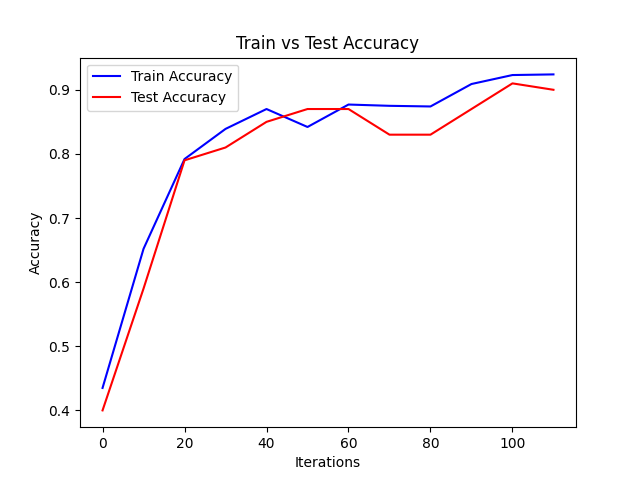
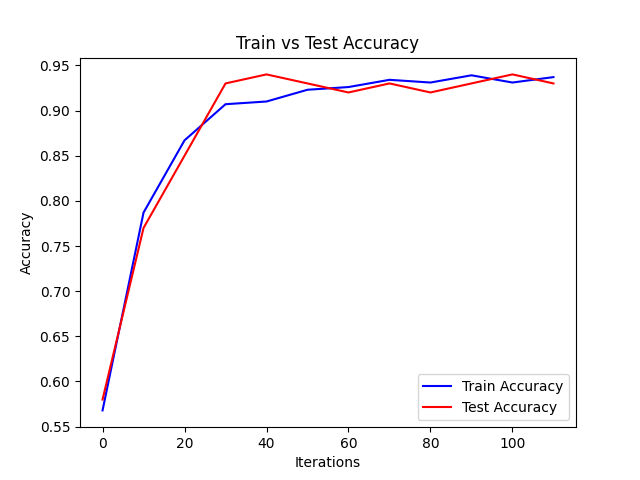
Different parameters

diff --git a/GQHAN_penny.py b/GQHAN_penny.py
@@ -128,8 +128,8 @@ num_params = 14
 def circuit_training(X_train, Y_train, X_test, Y_test):
     
     np.random.seed(42) 
-    #params = np.pi * np.random.randn(num_params, requires_grad=True)
-    params = 0.01 * np.random.randn(num_params, requires_grad=True)
+    params = np.random.uniform(low=-np.pi, high= np.pi, size=(num_params),requires_grad=True)
+    #params = 0.01 * np.random.randn(num_params, requires_grad=True)
     opt = qml.NesterovMomentumOptimizer(stepsize=learning_rate)
     loss_history = []
     acc_test_history = []
@@ -167,20 +167,20 @@ def circuit_training(X_train, Y_train, X_test, Y_test):
     plt.ylabel('Accuracy')
     plt.title('Train vs Test Accuracy')
     plt.legend()
-    plt.savefig('results/trainVStestAcc.png')
+    plt.savefig('results/trainVStestAcc2.png')
     plt.close()
 
     plt.plot(training_step, loss_history, color='green', label='Loss')
     plt.xlabel('Iterations')
     plt.ylabel('Training Loss')
     plt.title('Train Loss')
-    plt.savefig('results/training_loss_pennylane.png')
+    plt.savefig('results/training_loss_pennylane2.png')
     plt.close()
 
     return loss_history, params
 
 
-n_samples = 550 
+n_samples = 550
 n_test_samples = 50
 n_features = 8  
 dataset = 'Fashion'
